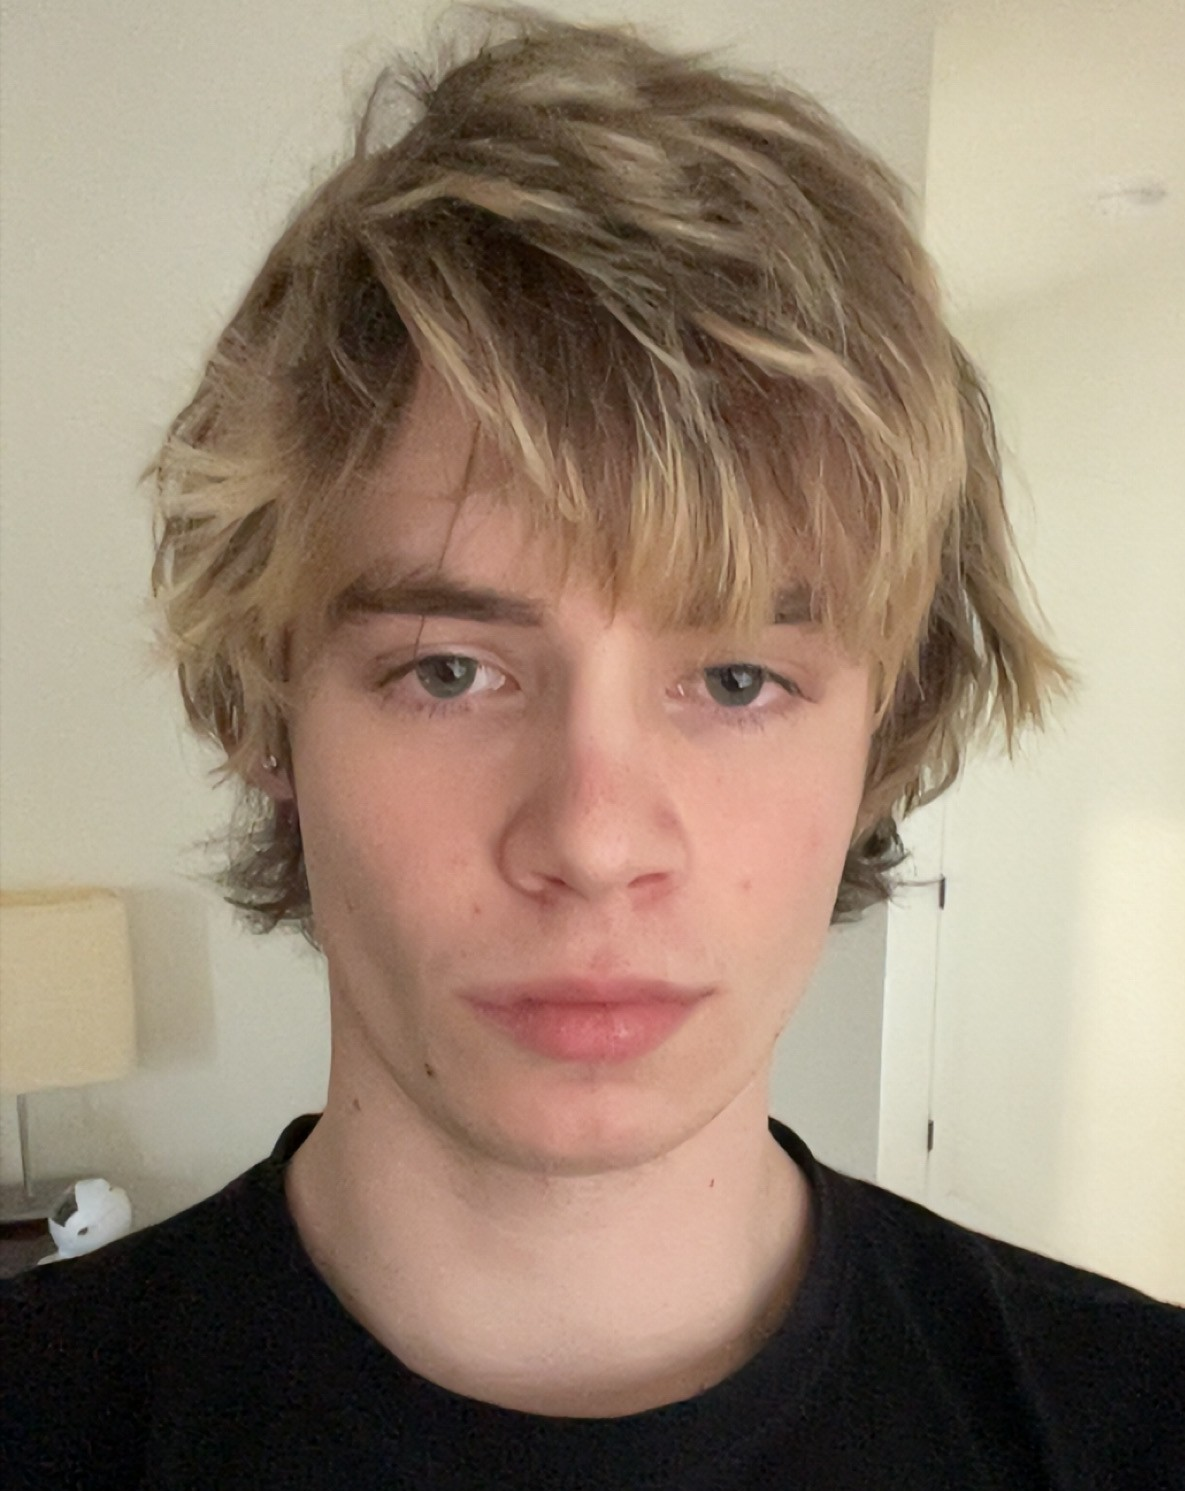
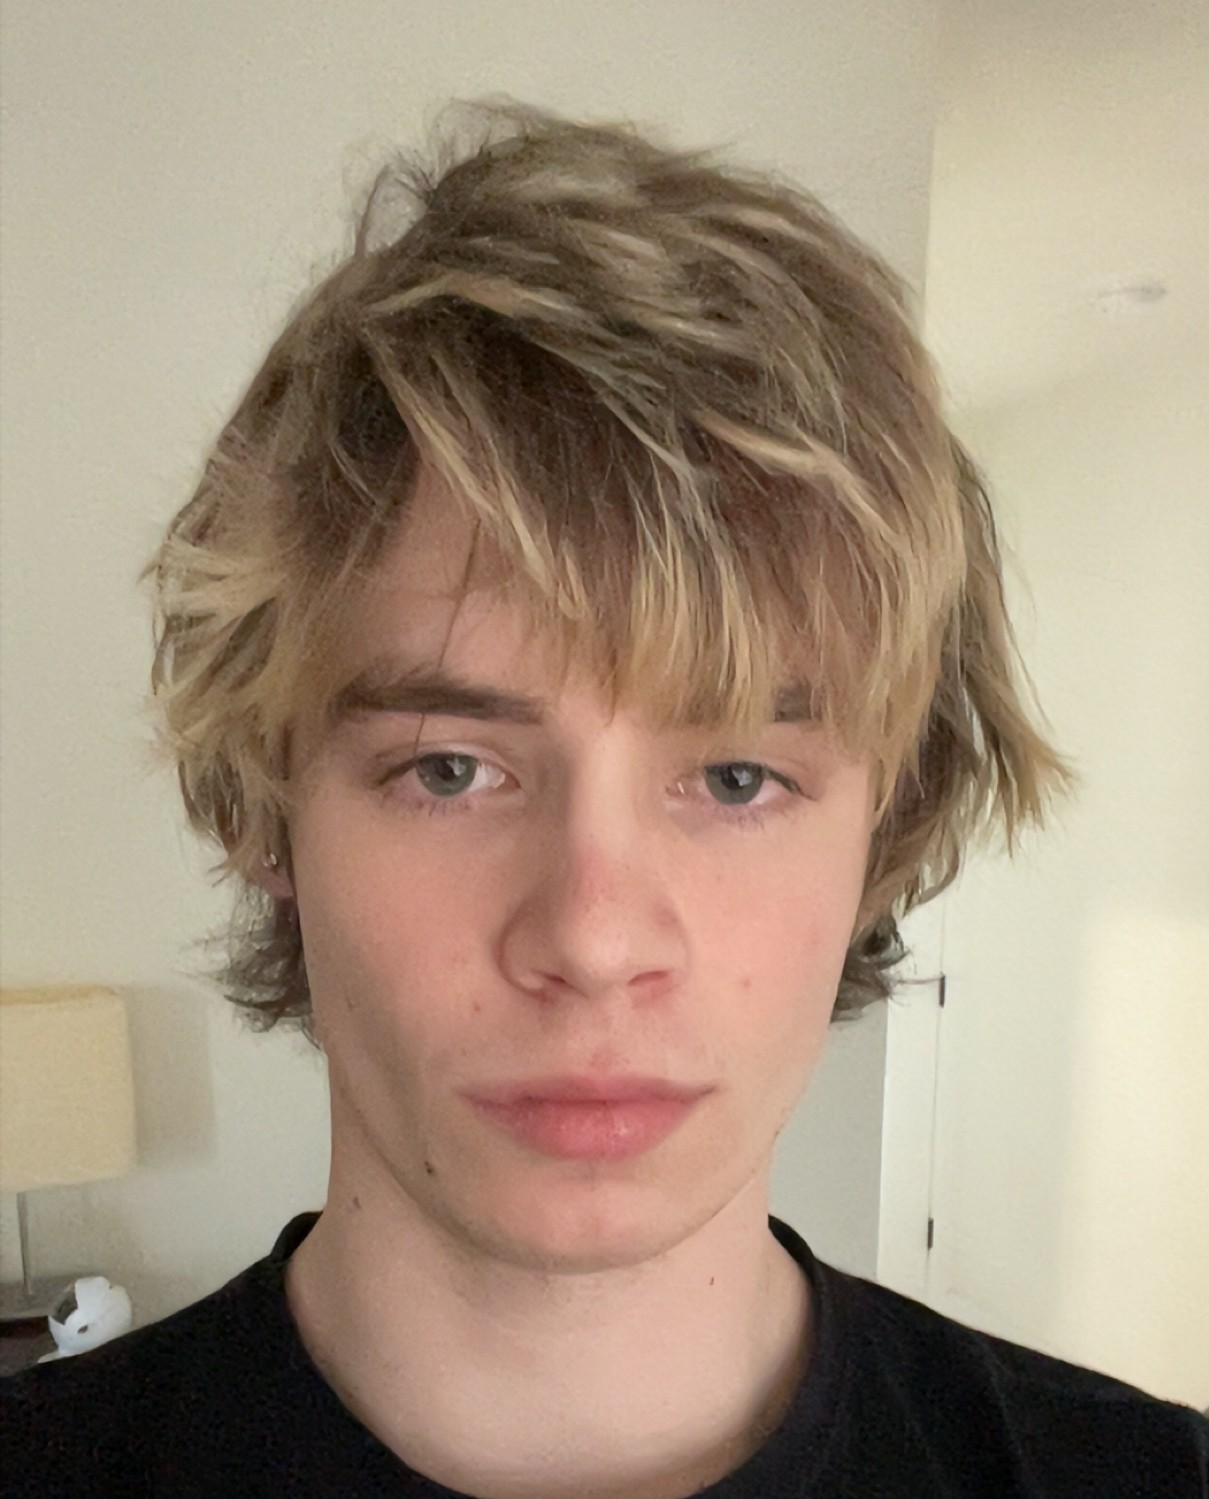
complete?

diff --git a/components/projects.tsx b/components/projects.tsx
@@ -17,15 +17,15 @@ const projects: Project[] = [
     {
     title: "Munkey AI",
     narrative:
-      "My college roommate and I are building a full stack AI learning platform where teachers create courses, upload assignments and learning materials, manage grades, and teach students with the help of AI. Uses AI to automatically parse assignments, creating a designated AI chat for every student for each problem, using RAG or manual teacher input to create mappings to specific pages within related learning materials. Provides teachers the ability to customize the AI for every problem, defining the system prompt, resources, and instructional behavior/guidelines. There are more features such as allowing teachers to see student chat history for each problem.",
-    tags: ["Full Stack Development", "TypeScript", "Next.js", "Supabase", "Pinecone", "OpenAI"],
+      "Full scale LMS with built in AI tutoring for students and AI assistance for teachers. YC2026 applicant.",
+    tags: ["Full Stack Development", "TypeScript", "React", "Next.js", "Supabase", "PostgreSQL", "Stripe", "Cloudflare", "AI Integration"],
     link: "https://munkey.ai/",
     image: "/munkeyai.png",
   },
   {
     title: "Fragmentor",
     narrative:
-      "This is one of my startups which is a visual graph IDE for AI driven software development. It allows users to model system architecture and data flow in an easy to use, aesthetically pleasing interface. The software runs locally alongside a coding harness like Claude Code or Codex, sharing the same workspace as the AI. The AI understands how Fragmentor works, and builds the project according to the rules and constraints of the system. The graphs are automatically generated from the code and file structure that the AI builds. Tests can be created, saved, and run on each system and subsystem. It even supports debugging breakpoints in the system architecture to follow data and see what components of the system are failing.",
+      "Software architecture IDE that works alongside AI to provide transparency and control over AI generated code.",
     tags: ["TypeScript", "Electron", "CLI", "System Engineering", "Software Architecture", "AI Integration"],
     link: "https://fragmentor-software.vercel.app/",
     image: "/fragmentor2.gif",
@@ -33,7 +33,7 @@ const projects: Project[] = [
   {
     title: "Model Rocket Flight Computer",
     narrative:
-      "I built a real-time model rocket avionics system using a bare metal STM32 setup. The system handles sensor processing, flight data computation, flight event detection, and data logging. I designed a compact PCB and soldered it with the help of the rocket propulsion team I was working with. I wrote the embedded firmware in C++ and organized the system around real-time tasks with RTOS for sensor polling, calculations, and flight logic. After flights, I used Python and Matplotlib to display and analyze the flight data over time.",
+      "Flight computer for a model rocket running RTOS on an STM32 microcontroller. Polls multiple peripherals and logs data to an SD card.",
     tags: ["RP2040", "RTOS", "C", "Python", "Soldering", "KiCad"],
     link: "https://github.com/quinngifford/STM32-Rocket-Computer",
     image: "/rocketo.png",
@@ -41,7 +41,7 @@ const projects: Project[] = [
   {
     title: "Kawaii Chat",
     narrative:
-      "I'm developing a chatbot app called Kawaii Chat, where users can interact with all of the top AI models in one place, with animated visual personas and customizable personalities. I have hired artists to bring life to all the biggest AI models such as Claude, ChatGPT, and also free local models such as Llama. The app is subscription based, enabling cool features such as group chats with models, custom characters, and more.",
+      "Visual personas for all of the top LLM models. Customizable personalities and appearences. Group chats, mouse interactions, and other cool features.",
     tags: ["Full Stack", "TypeScript", "Next.js", "Electron", "PostgreSQL", "Docker","Stripe", "AI Integration"],
     link: "https://kawaiichat.app/",
     image: "/kawaiichat.gif",
@@ -49,7 +49,7 @@ const projects: Project[] = [
   {
     title: "Wireless Game Controller",
     narrative:
-      "I built a wireless game controller using an ESP32 and a custom PCB. The controller has buttons that send data wirelessly to another ESP32, which can be connected to a corresponding game console or computer to receive the inputs. I designed the PCB in KiCad, soldered the components, and wrote firmware in C++ to handle button inputs and wireless communication.",
+      "Wireless game controller using ESP32 on a custom PCB. The controller has 4 buttons that send inputs to another ESP32 over bluetooth or WIFI.",
     tags: ["ESP32", "C++", "Soldering", "KiCad"],
     link: "https://github.com/quinngifford/ESP32-Wireless-Remote",
     image: "/gamecontroller.png",
@@ -57,7 +57,7 @@ const projects: Project[] = [
   {
     title: "RF Receiver and Amplifier PCBs",
     narrative:
-      "I made a 433.92 MHz RF receiver front end designed to filter an incoming wireless signal, mix it with a 100 MHz local oscillator, and downconvert it to a 333.92 MHz intermediate frequency. The IF output is then sent to an existing RF amplifier and ultimately into an SDR or demodulator for recovering the transmitted data or audio",
+      "433.92 MHz RF receiver front end designed to filter an incoming wireless signal, mix it with a 100 MHz local oscillator, and downconvert it to a 333.92 MHz intermediate frequency. The IF output is then sent to an existing RF amplifier and ultimately into an SDR or demodulator for recovering the transmitted data or audio. To be honest this stuff is still black magic to me, I had help making this.",
     tags: ["KiCad", 'Signal Processing', 'RF Design'],
     link: "",
     image: "/receiever.png",
@@ -65,10 +65,26 @@ const projects: Project[] = [
   {
     title: "OpenGL Traffic Simulation",
     narrative:
-      "I built a full traffic intersection simulator in C++ and OpenGL. I drew an intersection with shaders in OpenGL and programmed cars to drive through it with realistic physics in C++. I programmed multiple traffic light control algorithms in order to find the the most efficient one. The system tracks every car's wait time, and the total intersection throughput. I did this project because I think that a lot of intersections in the US suck and need to be upgraded with smarter software to reduce traffic. There are two versions of this project, one that I wrote by hand in 2023, and a revamped version with Claude. (Claude mogs)",
+      "Physics based traffic simulator built entirely with C++ and OpenGL. I programmed multiple traffic light control algorithms in order to find the the most efficient one. The system tracks every car's wait time, and the total intersection throughput. I wrote this by hand in 2023 and revamped it with Claude recently.",
     tags: ["C", "C++", "OpenGL"],
     link: "https://github.com/quinngifford/OpenGL-traffic-simulator",
     image: "/traffic2.gif",
+  },
+  {
+    title: "Guitar Hero on FPGA and ESP32",
+    narrative:
+      "Recreated Guitar Hero using a CMOD F7 FPGA. The FPGA is hooked up to a 4 LED strip display. Using SystemVerilog I programmed the outputs of the FGPA to control the notes going down the LED strips. This was difficult because I had to write a pulse width encoder from scratch using an HDL, which is a pretty uncommon task. I incorporated my previous wireless controller project to play, which required me to wire an ESP32 to the FPGA. Then I incorporated my beatmap generator project to generate the notes for the songs. I wrote SystemVerilog code to handle everything, including loading notes into memory, level selection, score tracking, and game logic.",
+    tags: ["KiCad", "Soldering", "FPGA", "C++", "SystemVerilog"],
+    link: "#",
+    image: "/guitarhero.gif",
+  },
+{
+    title: "Beatmap Generator",
+    narrative:
+      "Automatic beatmap generator that analyzes audio and produces playable rhythm-game charts across multiple difficulty levels. The system uses digital signal processing techniques to detect musical onsets, estimate tempo, track beats, classify percussion, and assign notes to playable lanes with precise timing. It generates JSON, CSV, and osu!mania-compatible charts. The pipeline achieves sub-millisecond timing accuracy on percussive test tracks and processes audio at roughly 200× real time.",
+    tags: ["Python", "Digital Signal Processing", "Audio Analysis"],
+    link: "https://github.com/quinngifford/Beatmap-Generator",
+    image: "/beatmap.gif",
   },
   {
     title: "Lego Building Simulator",
@@ -77,22 +93,6 @@ const projects: Project[] = [
     tags: ["C++", "OpenGL", "3D Graphics"],
     link: "https://github.com/quinngifford/Lego-Building-Simulation",
     image: "/LEGOs.gif",
-  },
-  {
-    title: "Guitar Hero on FPGA and ESP32",
-    narrative:
-      "Recreated Guitar Hero using a CMOD F7 FPGA. The FPGA is hooked up to a 4 LED strip display. Using SystemVerilog I programmed the outputs of the FGPA to control the notes going down the LED strips. This was difficult because I had to write a pulse width encoder from scratch using an HDL, which is uncommon. I incorporated my previous wireless controller project to play, which required me to wire an ESP32 to the FPGA. Then I incorporated my beatmap generator project to generate the notes for the songs. I wrote SystemVerilog code to handle everything, including loading notes into memory, level selection, score tracking, and game logic.",
-    tags: ["KiCad", "Soldering", "FPGA", "C++", "SystemVerilog"],
-    link: "#",
-    image: "/guitarhero.gif",
-  },
-  {
-    title: "Beatmap Generator",
-    narrative:
-      "Automatic beatmap generator that analyzes audio and produces playable rhythm-game charts across multiple difficulty levels. The system uses digital signal processing techniques to detect musical onsets, estimate tempo, track beats, classify percussion, and assign notes to playable lanes with precise timing. It generates JSON, CSV, and osu!mania-compatible charts. The pipeline achieves sub-millisecond timing accuracy on percussive test tracks and processes audio at roughly 200× real time.",
-    tags: ["Python", "Digital Signal Processing", "Audio Analysis"],
-    link: "https://github.com/quinngifford/Beatmap-Generator",
-    image: "/beatmap.gif",
   },
   {
     title: "Application God",
